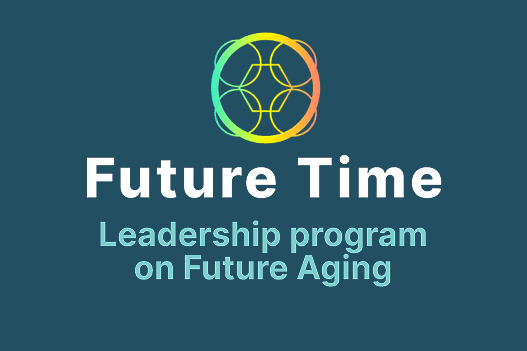
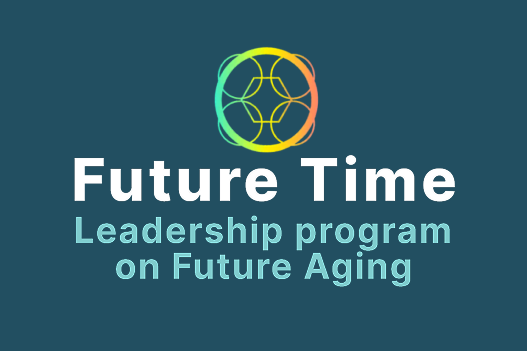
og:image

Changed region(s): [[0.1214, 0.0855, 0.6072, 0.5983], [0.1214, 0.5983, 0.8805, 0.8262], [0.5465, 0.4274, 0.8805, 0.5983]]

diff --git a/index.html b/index.html
@@ -8,7 +8,7 @@
   <!-- Open Graph / Social Media -->
   <meta property="og:title" content="FutureTime — Israel & Japan Shaping the Future of Aging" />
   <meta property="og:description" content="A leadership program uniting cross-sector leaders to promote collaboration for optimal aging in Israel." />
-  <meta property="og:image" content="https://mashutkaru.github.io/Future-Time-Delegation/og-image.png?v=4" />
+  <meta property="og:image" content="https://mashutkaru.github.io/Future-Time-Delegation/og-image.png?v=5" />
   <meta property="og:image:width" content="527" />
   <meta property="og:image:height" content="351" />
   <meta property="og:image:alt" content="FutureTime — leadership program on aging innovation connecting Israel and Japan" />